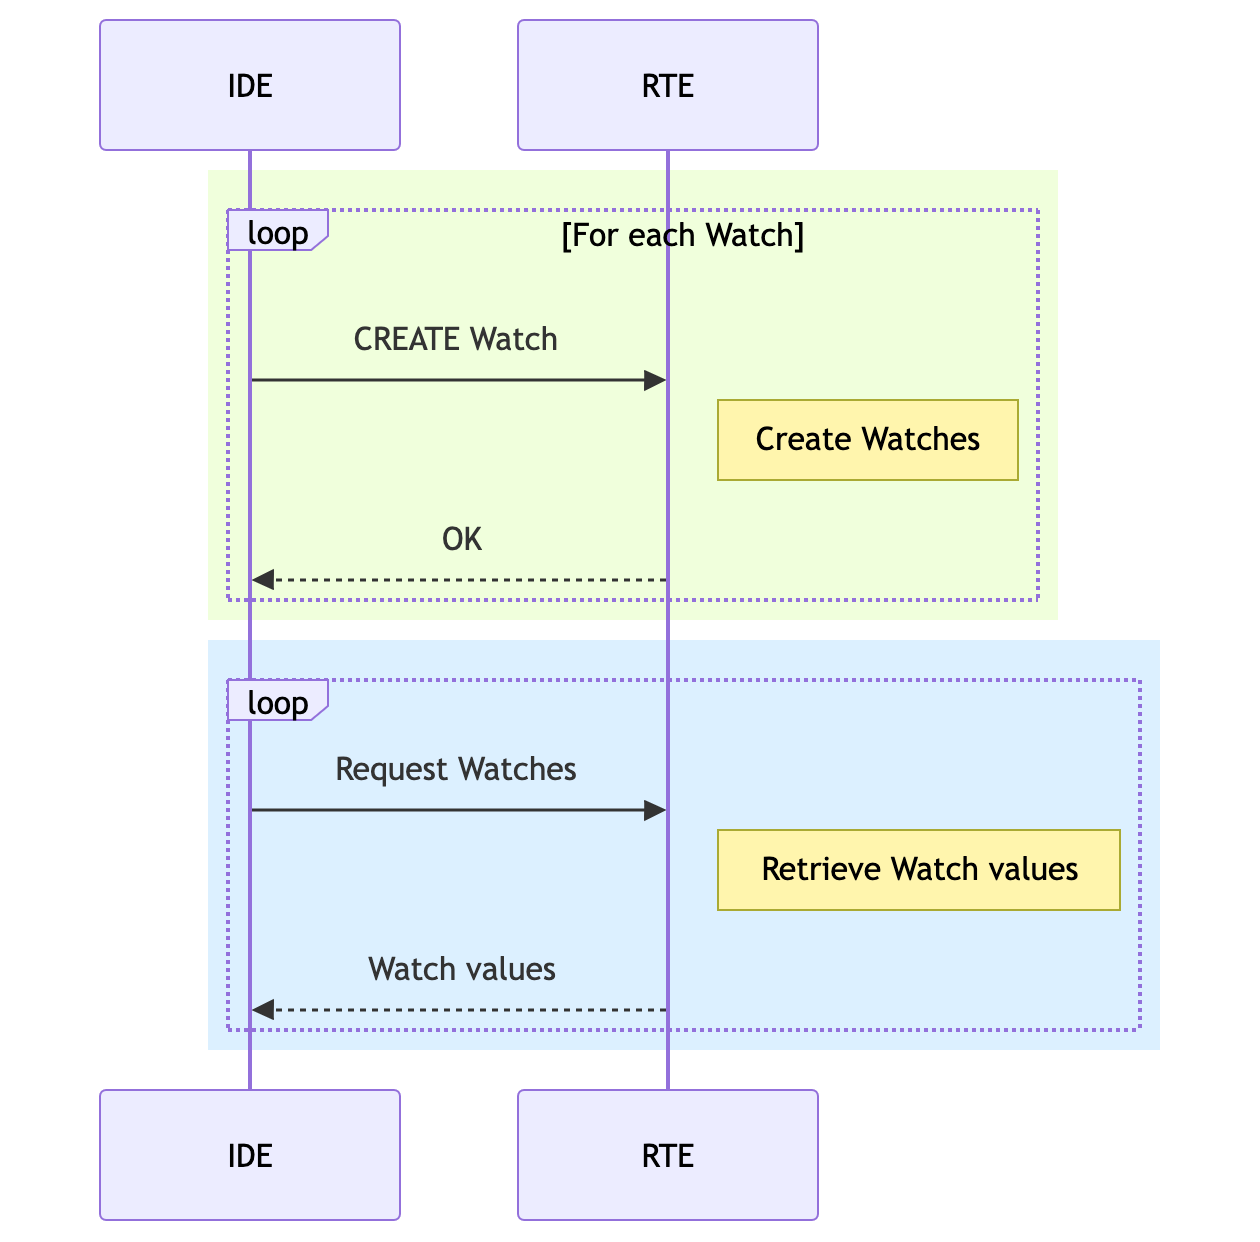
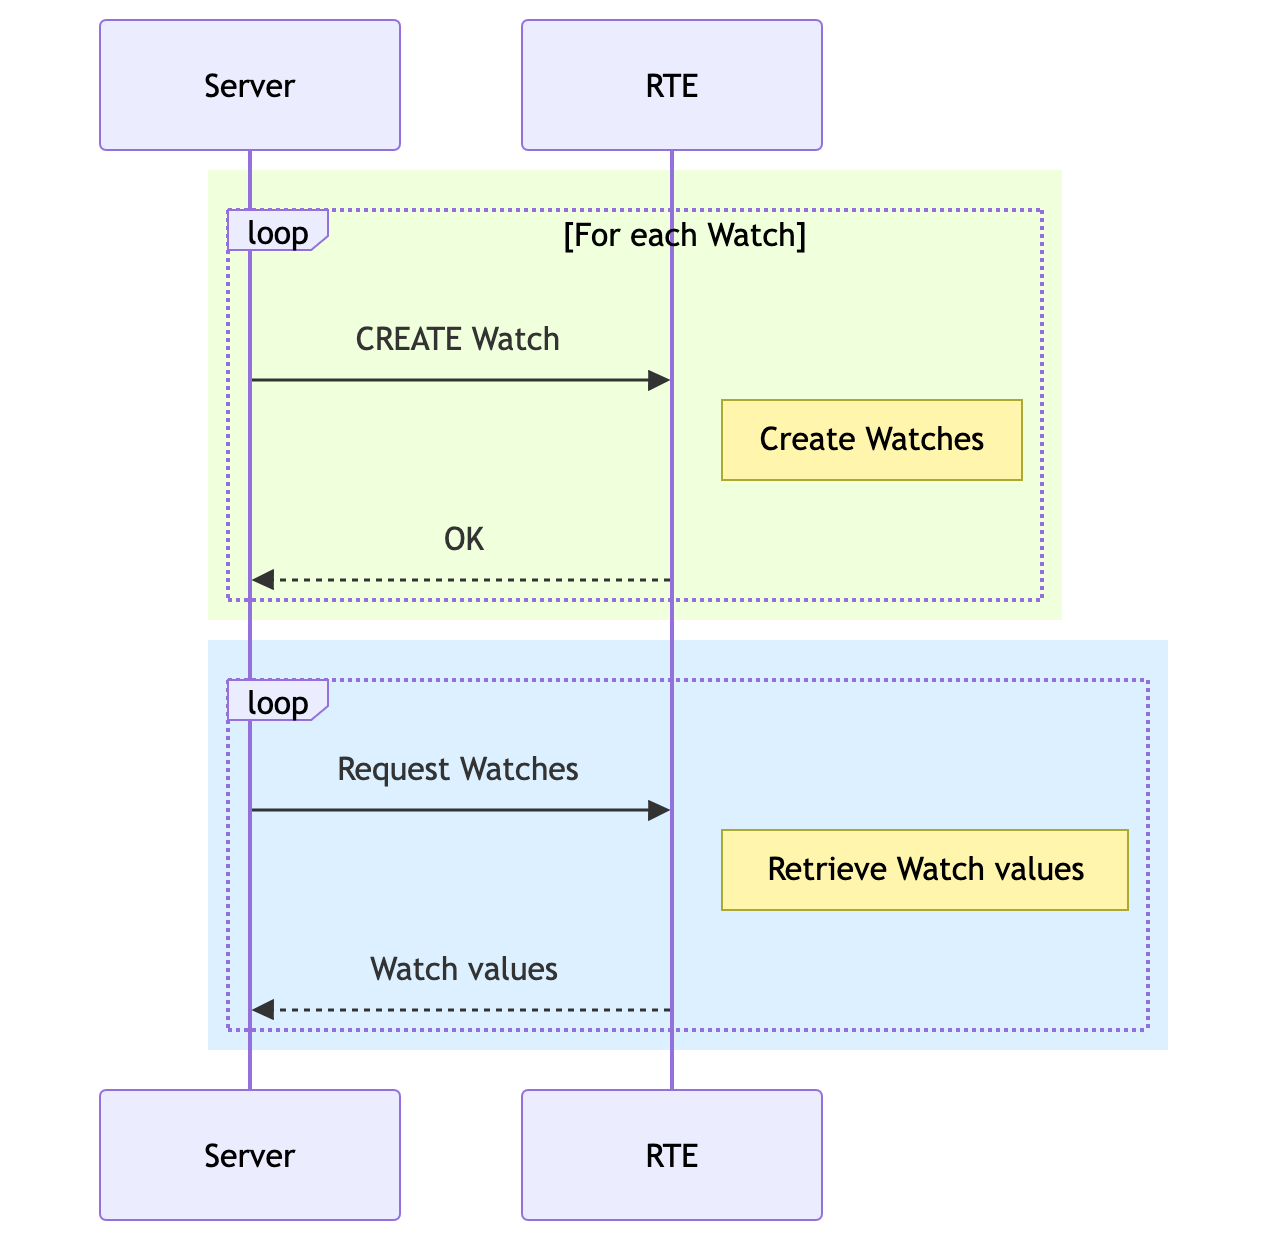
[report] improving the implementation

diff --git a/report/body/chapter4.tex b/report/body/chapter4.tex
@@ -1,14 +1,13 @@
+% TODO review whole chapter
 \chapter{Implementation}
 To be able to prove the proposed solution is viable and will successfully address the gap identified, a prototype needs to be developed and afterwards validated. This chapter describes the technical implementation of the proposed system, detailing the server architecture, frontend implementation, collaboration system and deployment mechanism used to realise the conceptual design presented in \Cref{chap:proposed-solution}.
 
-% TODO talk about how the requirements were explored as code was developed
-
-% \section{Technology Selection}
-% Firstly some decisions need to be made to choose the most appropriate technologies to support this work.
-
 \section{Runtime Environment}
-Out of all \acp{RTE} compatible with \textit{IEC 61499}, this prototype will focus on supporting \textit{DINASORE} (Dynamic INtelligent Architecture for Software and MOdular REconfiguration) \cite{pereira_dinasore_2020}. It is much less complex than others, making it ideal for a proof of concept \ac{IDE}. As an open-source project, \textit{DINASORE} can be freely inspected and studied, which is particularly valuable in a research and prototyping context where flexibility is prioritised over real-time performance guarantees. This ease of study rules out the use of commercial \acp{RTE} like \textit{EcoStruxure Automation Expert's "dPAC"} and \textit{ISaGRAF Runtime}. Other open-source \acp{RTE} were considered, but none were as well-suited as \textit{DINASORE}. \textit{4diac FORTE} for example was way too extensive and complicated to be able to easily study its source code. \Cref{fig:dinasore-architecture} represents the architecture of this \ac{RTE} where \textit{PTERO} aims to replace the \textit{4DIAC Interface}.
-% TODO maybe talk about the use of python both in dinasores code and the fbs code
+Out of all \acp{RTE} compatible with \textit{IEC 61499}, this prototype will focus on supporting \textit{DINASORE} (Dynamic INtelligent Architecture for Software and MOdular REconfiguration) \cite{pereira_dinasore_2020}. It is much less complex than others, making it ideal for a proof of concept \ac{IDE}. As an open-source project, \textit{DINASORE} can be freely inspected and studied, which is particularly valuable in a research and prototyping context where flexibility is prioritised over real-time performance guarantees. This ease of study rules out the use of proprietary \acp{RTE} like \textit{EcoStruxure Automation Expert's "dPAC"} and \textit{ISaGRAF Runtime}.
+
+Where the open-source \ac{RTE} \textit{4diac FORTE} provides a portable C\texttt{++} execution environment for low-level industrial deployments, \textit{DINASORE} occupies the same architectural role while targeting higher-level workloads that benefit from the \textit{Python} ecosystem. The two runtimes share the same management protocol, meaning that concepts developed against one transfer directly to the other. \textit{4diac FORTE} itself was considered as a target \ac{RTE} but ruled out as its codebase is substantially larger and more complex, making it more complex to study and target.
+
+\Cref{fig:dinasore-architecture} represents the architecture of this \textit{DINASORE} where \textit{PTERO} aims to replace the \textit{4DIAC Interface}.
 
 
 \begin{figure}[H]
@@ -17,16 +16,18 @@ Out of all \acp{RTE} compatible with \textit{IEC 61499}, this prototype will foc
   \label{fig:dinasore-architecture}
 \end{figure}
 
-By default, \textit{DINASORE} uses the port \textit{61499} to receive commands from the \ac{IDE} and send responses. This is important to note as it is the port that will be used as example in this chapter. The exact details of the communication implementation will be explained further in \Cref{sec:deployment}.
-
+% TODO talk about limitations:
 % TODO mention that dinasore is not supported in newer versions of 4diac ide, which means it doesnt run on mac. maybe mention it in another section
 % TODO mention that the communication with 4diac ide was studied
 % TODO talk about changes made to DINASORE
 
 \section{Server}
-The design begins by setting up a server that will serve the \ac{IDE} interface as a webpage, store and manage all the data and handle communication with the \acp{RTE}. Taking into account the features that are planned, \textit{JavaScript} running on \textit{Node.js} were chosen due to the extensive library ecosystem. For real-time collaboration a library will be required to run in both the server and the frontend, since \textit{JavaScript} runs natively in the browser, it further reinforces that it should also be used in the server. The library choice will be explained in depth in \Cref{sec:real-time-collaboration}, proving the previous train of thought.
+The design begins by setting up a centralised backend server tasked with serving the \ac{IDE} interface as a web application, managing data persistence, and communicating with the distributed \acp{RTE}. Taking into account the features that are planned, \textit{JavaScript} running on \textit{Node.js} was chosen as the underlying environment to run the server on, due to the extensive library ecosystem, leveraging an asynchronous, event-driven and non-blocking I/O model \cite{sun_reasoning_2019}.
 
-% TODO mention implementation of database and more about server
+% TODO better to keep this here or move to proposed solution?
+To address data management, the server adopts a \textit{Document-Oriented Database} system. Because \textit{IEC 61499} configurations, such as function blocks and event/data connections, are inherently structured as hierarchical graphs, a database that stores data as key values pairs represents the optimal architectural fit. In fact, local-first \acp{IDE} for the standard usually store the programs in a \textit{XML} format for this exact reason.
+
+Architecturally, the server functions as a multi-protocol hub: it handles traditional HTTP traffic and maintains WebSocket channels for bidirectional communication with active \acp{RTE}. For real-time collaboration, a library will be required to run in both the server and the frontend. Since \textit{JavaScript} runs natively in the browser, it further reinforces that it should also be used in the server, creating a homogeneous single language stack that simplifies data serialization across network boundaries. The library choice will be explained in depth in \Cref{sec:real-time-collaboration}, proving the previous train of thought.
 
 \section{Frontend}
 The frontend is the \ac{UI} that will be used to create and modify the \ac{FBD} programs.

diff --git a/report/body/chapter2.tex b/report/body/chapter2.tex
@@ -28,9 +28,11 @@ Furthermore, terms related to the state of the art that were discovered mid sear
 \end{itemize}
 
 \section{Distributed Function Block Engineering}
-Modern manufacturing and industrial automation are increasingly characterised by the transition from monolithic centralised control architectures towards distributed modular systems. The industry is moving towards a paradigm in which individual parts possess intelligence and communicate with one another. This shift is driven by the demands of Industry 4.0, which calls for flexibility and interoperability as key properties of the production infrastructure \cite{folgado_review_2024}. \citeauthor{monostori_cyber-physical_2014} \cite{monostori_cyber-physical_2014} provides a comprehensive analysis of \ac{CPPS}, examining the theoretical foundations and practical implications of tightly coupling computational intelligence with physical manufacturing processes. The author explores how cyber-physical integration enables real-time monitoring, adaptive control and autonomous decision making in production systems, framing \ac{CPPS} as a cornerstone of the fourth industrial revolution. This work establishes the concepts wording and architectural principles that help understand much of the research in this area and it serves as a reference for understanding why the flexible distributed control is necessary to realize the vision of \ac{CPPS}.
+Modern manufacturing and industrial automation are increasingly characterised by the transition from monolithic centralised control architectures towards distributed modular systems. The industry is moving towards a paradigm in which individual parts possess intelligence and communicate with one another. This shift is driven by the demands of Industry 4.0, which calls for flexibility and interoperability as key properties of the production infrastructure \cite{folgado_review_2024}. \citeauthor{monostori_cyber-physical_2014} \cite{monostori_cyber-physical_2014} provides a comprehensive analysis of \ac{CPPS}, examining the theoretical foundations and practical implications of tightly coupling computational intelligence with physical manufacturing processes. The author explores how cyber-physical integration enables real-time monitoring, adaptive control and autonomous decision making in production systems, framing \ac{CPPS} as a cornerstone of the fourth industrial revolution. This work establishes the concepts, wording and architectural principles that help understand much of the research in this area and it serves as a reference for understanding why the flexible distributed control is necessary to realize the vision of \ac{CPPS}.
 
-The \textit{IEC 61499} standard was developed precisely to address these requirements at the software level. This architecture defines a domain-specific modelling language for developing distributed \ac{ICS}. It does so by extending and superseding the older \textit{IEC 61131-3} standard, which was designed for centralised \ac{PLC}-based control, providing next-generation systems with an architecture that enables distributed control \cite{bencherki_iec_2024}. The architecture encourages flexible reuse of components as well as reliable data exchange. Function blocks are interconnected into networks that form an application, which can then be distributed across multiple devices, a property that makes \ac{FBD} a natural fit for \ac{CPPS} deployments where hardware must collaborate to execute an unified control program. \citeauthor{torres_literature_2025} \cite{torres_literature_2025} conducted a literature review examining how \textit{IEC 61499} can be leveraged specifically for \ac{CPPS} development, mentioning possible enhancements with the use of a cloud-based \ac{SOA} approach. Their paper examines the current state of adoption of the standard within industrial automation research, identifying recurring architectural patterns in \ac{CPPS} implementations.
+The \textit{IEC 61499} standard was developed precisely to address these requirements at the software level. This architecture defines a domain-specific modelling language for developing distributed \ac{ICS}. It does so by extending and superseding the older \textit{IEC 61131-3} standard, which was designed for centralised \ac{PLC}-based control, providing next-generation systems with an architecture that enables distributed control \cite{bencherki_iec_2024}. The architecture encourages flexible reuse of components as well as reliable data exchange.
+
+In \ac{FBD}, function blocks are interconnected into networks that form an application, which can then be distributed across multiple devices \cite{liang_kind_2008}, a property that makes \ac{FBD} a natural fit for \ac{CPPS} deployments where hardware must collaborate to execute an unified control program. \citeauthor{torres_literature_2025} \cite{torres_literature_2025} conducted a literature review examining how \textit{IEC 61499} can be leveraged specifically for \ac{CPPS} development, mentioning possible enhancements with the use of a cloud-based \ac{SOA} approach. Their paper examines the current state of adoption of the standard within industrial automation research, identifying recurring architectural patterns in \ac{CPPS} implementations.
 
 Conversely, \citeauthor{pinto_digital_2023} \cite{pinto_digital_2023} presented an industrial case study showing that function block oriented approaches improve system modularity and reduce development effort compared to traditional procedural programming. Their study documents the migration of a production cell from a sequential control architecture to an \textit{IEC 61499} function block model using the \textit{DINASORE} \ac{RTE}, using integration time as the main validation metric and demonstrating improved reconfigurability when production requirements changed. The results show that the encapsulation of behaviour and communication interfaces within function blocks leads to more maintainable and extensible software.
 
@@ -40,14 +42,14 @@ Conversely, \citeauthor{pinto_digital_2023} \cite{pinto_digital_2023} presented 
 Currently, the development ecosystem for \textit{IEC 61499} is composed almost exclusively of desktop-based \acp{IDE}. These tools are typically monolithic applications installed locally on engineering workstations, requiring each member of a development team to independently install, configure and maintain the software on their own machine. The tools themselves tend to be resource intensive, which creates demands for the hardware, making them less accessible to users working on modest, shared or virtual machines. There is also the issue of platform dependency, as a niche and focused field, some \acp{IDE} are not crossplatform, forcing users to use virtual machines to be able to use them, further intensifying performance issues.
 
 \subsection{Open-Source}
-The most prominent open source implementation is the \textit{4diac IDE} (based on the \textit{Eclipse} framework) which supports a variety of \acp{RTE} such as \textit{4diac FORTE} and \textit{DINASORE}. This \ac{IDE} is very feature rich at the cost of increased complexity, resulting in a steep learning curve, which makes it more difficult to use \cite{weber_usability_2019}. The \textit{Eclipse} foundation on which it is built is itself a heavyweight platform and while this grants access to a broad plugin ecosystem, it also means that the \ac{IDE} inherits the framework's architectural complexity. Navigating the interface to accomplish basic tasks such as creating a new function block type, designing the flow and deploying to a \ac{RTE} can require substantial initial investment before productive work can begin.
+The most prominent open source implementation is the \textit{4diac IDE} (based on the \textit{Eclipse} framework) which supports a variety of \acp{RTE} such as \textit{4diac FORTE} and \textit{DINASORE}. This \ac{IDE} is very feature rich at the cost of increased complexity, resulting in a steep learning curve, which makes it difficult to use \cite{weber_usability_2019}. The \textit{Eclipse} foundation on which it is built is itself a heavyweight platform and while this grants access to a broad plugin ecosystem, it also means that the \ac{IDE} inherits the framework's architectural complexity. Navigating the interface to accomplish basic tasks such as creating a new function block type, designing the flow and deploying to a \ac{RTE} can require substantial initial investment before productive work can begin.
 
 \citeauthor{zoitl_developing_2013} \cite{zoitl_developing_2013} demonstrated the use of \textit{4diac IDE} to develop modular and reusable \textit{IEC 61499} applications, highlighting the benefits of flexibility and adaptability in industrial settings. The paper provides a practical perspective on the strengths and limitations of this \ac{IDE}.
 
 An alternative is \textit{FBME}, which is a much simpler modelling environment based on the \textit{JetBrains MPS} language workbench. This \ac{IDE} implements \textit{IEC 61499} concepts through a set of integrated \acp{DSL}. The main contribution of this work is the research on applying model-driven development principles to the architecture of the \ac{IDE} itself \cite{sorokin_novel_2022}, resulting in a very modular and extensible product.
 
 \subsection{Commercial}
-The commercial side is occupied by \textit{EcoStruxure Automation Expert}, \textit{ISaGRAF Workbench} \cite{vyatkin_comparisons_2008} and other development environments that usually have their own built-in proprietary \ac{RTE}. This tight coupling between the engineering tool and the runtime gives commercial vendors significant control over the end development experience, which typically results in polished, production-ready tooling with strong vendor support. However, it also introduces considerable lock-in: projects developed in one commercial environment are not easily portable to a different runtime or \ac{IDE} and the proprietary nature of the underlying \ac{RTE} limits the ability to inspect, extend, or adapt behaviour.
+The commercial side is occupied by \textit{EcoStruxure Automation Expert}, \textit{ISaGRAF Workbench} \cite{vyatkin_comparisons_2008}, tools that have their own built-in proprietary \ac{RTE}. This tight coupling between the engineering tool and the runtime gives commercial vendors significant control over the end development experience, which typically results in polished, production-ready tooling with strong vendor support. However, it also introduces considerable lock-in: projects developed in one commercial environment are not easily portable to a different runtime or \ac{IDE} and the proprietary nature of the underlying \ac{RTE} limits the ability to inspect, extend, or adapt behaviour.
 
 Commercial tools are also constrained by their licensing models. Per seat licensing is common, meaning that the cost of the toolchain scales directly with the size of the team and can not be viable for smaller organisations, academic research groups or early stage projects. This creates a tiered ecosystem in which well resourced industrial organisations have access to mature tooling, while smaller teams are restricted to the open source alternatives, each of which carries its own set of limitations as described above.
 
@@ -140,6 +142,8 @@ Current \textit{IEC 61499} tools face significant limitations that hinder modern
     \item \textbf{Lack of a Centralised System State:} Since tools are local-first, there is no single representation of a system's current state. This makes it difficult to maintain a consistent view of the system across a distributed team to integrate the development environment into automated deployment and monitoring pipelines.
 
     \item \textbf{Limited Accessibility:} Engineers cannot access a project without access to a fully configured workstation. This is a practical limitation in industrial settings, where on-site diagnosis of a running application may be necessary from a device in which no local tooling has been installed and the project is not set up.
+
+    % TODO remote deployment
 \end{itemize}
 
 Taken together, thse gaps suggest that the ecosystem is well positioned to benefit from a lightweight, browser-accessible development environment that prioritises collaboration, low setup overhead and integration with modern deployment workflows, without sacrificing the domain-specific features that \textit{IEC 61499} engineers depend on. %TODO maybe dont mention the solution here

diff --git a/report/body/chapter3.tex b/report/body/chapter3.tex
@@ -8,12 +8,16 @@ The main reason to propose using web technologies is to solve the issues that af
 
 \begin{itemize}
   \item \textbf{Ease of setup}. Instead of each team member having to install a resource heavy program and set it up with the team's code and configurations, a single server is set up and the team members simply have to connect to it via their browser.
+
   \item \textbf{Ease of deployment}. Only the server needs to be aware of all of the target \acp{RTE} and have connection to them. When a team member wants to deploy, the request will be routed through the server, acting as the middleware, removing the need for each development machine to have connection with the target \acp{RTE}.
-  \item \textbf{Real-time collaboration}. All data is kept and directly modified in the server itself, instead of requiring a periodic synchronisation system like \textit{git}. \ac{FBD} coded programs, since they are meant for visual editing, need to be stored in formats that don't easily handle merge conflicts. Real-time combats this by keeping track of atomic changes, instead of blocks of text. % TODO ref about git merge conflicts in these types of files
+
+  \item \textbf{Improved collaboration}. A real-time collaboration aware system that keeps track of atomic changes, instead of blocks of text, reducing the integration integration error associated with version control systems on structured data.
+
   % TODO remote deployment
 \end{itemize}
 % TODO the state of the art needs to mention each of these
 % TODO mention 4diac will be used for comparision
+% TODO better coupling with the gaps
 
 \section{Approach}
 The approach is derived from functional and non-functional requirements extracted from the \textit{IEC 61499} standard, an analysis of existing tools and the gaps identified in the state of the art. Functional requirements include:

diff --git a/report/body/chapter5.tex b/report/body/chapter5.tex
@@ -233,6 +233,7 @@ Two questionnaires were designed and given to participants. One focused on the u
 % TODO mention the test program is the one added above
 
 A usabilty study on \textit{4diac IDE} has already been conducted by \citeauthor{weber_usability_2019} \cite{weber_usability_2019}, but given as the this new proposed solution introduces new concepts and expectations, a new usability study must be done to understand how this tool fairs in the specific fields that \textit{PTERO} sets out to innovate in.
+% TODO must be done parece q ainda nao o fiz. tenho de dizer q este foi feito
 
 \subsubsection*{Difficulty}
 With the use of a Likert \cite{likert_technique_1932} table, the difficulty of doing several different tasks using this \ac{IDE} was analysed. Ranging from \textit{Very Easy} to \textit{Very Hard}, this section had the intent of understanding how easy and straightforward each step of \textit{IEC 61499} development was. If a specific step was difficult in \textit{4diac IDE}, it will be interesting to see how it compares with \textit{PTERO}. The results are displayed in \Cref{tab:4diac-difficulty}.

diff --git a/report/figures/diagrams_src/uml.md b/report/figures/diagrams_src/uml.md
@@ -32,43 +32,43 @@ classDiagram
 
 ```mermaid
 sequenceDiagram
-    IDE->>RTE: QUERY
-    RTE-->>IDE: OK
+    Server->>RTE: QUERY
+    RTE-->>Server: OK
 
     rect rgb(240,255,220)
         loop For each FB
-            IDE->>RTE: CREATE FB
+            Server->>RTE: CREATE FB
             Note right of RTE: Create Function Blocks and initialise inputs
-            RTE-->>IDE: OK
+            RTE-->>Server: OK
         end
 
 
         loop For each Connection
-            IDE->>RTE: CREATE Connection
+            Server->>RTE: CREATE Connection
             Note right of RTE: Create Connections between Function Blocks
-            RTE-->>IDE: OK
+            RTE-->>Server: OK
         end
     end
 
-    IDE->>RTE: START
-    RTE-->>IDE: OK
+    Server->>RTE: START
+    RTE-->>Server: OK
 ```
 
 ```mermaid
 sequenceDiagram
     rect rgb(240,255,220)
         loop For each Watch
-            IDE->>RTE: CREATE Watch
+            Server->>RTE: CREATE Watch
             Note right of RTE: Create Watches
-            RTE-->>IDE: OK
+            RTE-->>Server: OK
         end
     end
 
     rect rgb(220, 240, 255)
         loop
-            IDE->>RTE: Request Watches
+            Server->>RTE: Request Watches
             Note right of RTE: Retrieve Watch values
-            RTE-->>IDE: Watch values
+            RTE-->>Server: Watch values
         end
     end
 ```